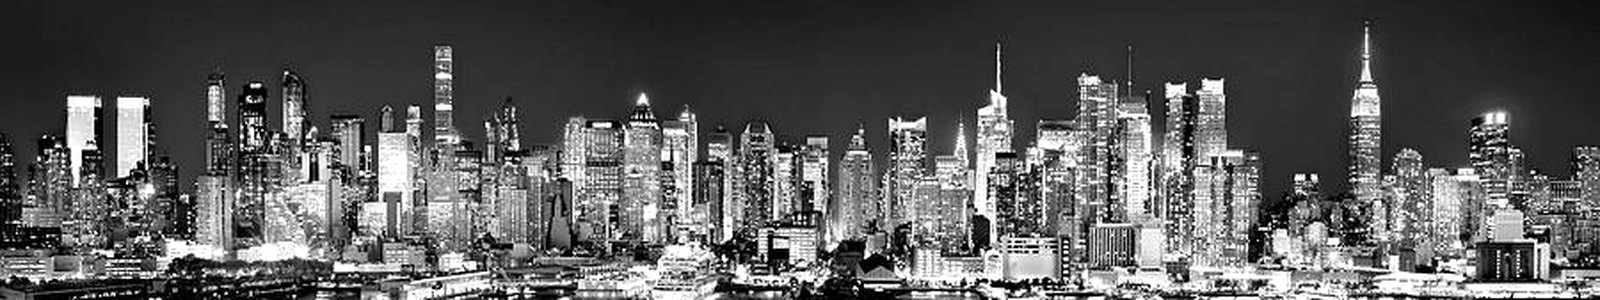
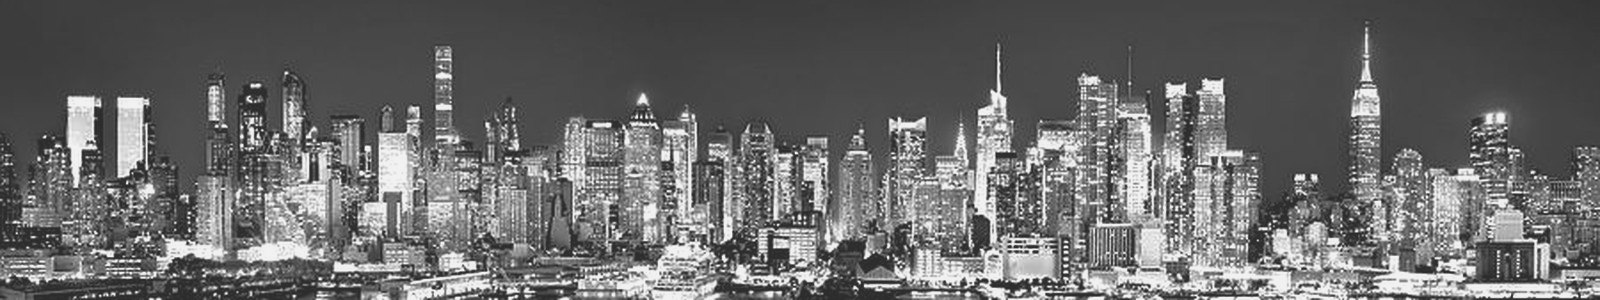
Regions: gray NYC sky to match, drop notes, equalize card heights
The New York strip's sky was near-black while LA and Seattle read
grayish. Lifted only its shadow range (blacks -> 46, rolled off at
130) so the sky median lands at 68, right between LA (61) and Seattle
(94), with the city lights untouched.

Also removed the note lines under the city captions and the caption's
bottom margin, so each card closes right where the notes used to
start: all three cards are now exactly equal height (227px).

diff --git a/index.html b/index.html
@@ -591,8 +591,7 @@
       border: 1px solid var(--line); line-height: 0;
     }
     .region-pano svg, .region-pano img { display: block; width: 100%; height: auto; }
-    .res-region p { font-size: 14px; color: var(--ink-2); line-height: 1.55; margin: 0 0 12px; }
-    .res-region .note { font-size: 12.5px; color: var(--ink-4); }
+    .res-region p { font-size: 14px; color: var(--ink-2); line-height: 1.55; margin: 0; }
 
     /* ─────────────── CTA band ─────────────── */
     .cta-band { background: #000; color: #fff; padding: 110px 0; text-align: center; }
@@ -982,7 +981,6 @@
               <img src="./assets/regions/newyork.jpg" alt="New York skyline at night" loading="lazy" />
             </figure>
             <p>New York and New Jersey</p>
-            <div class="note">Anchored around Ivy + HBCU athletic programs and the Northeast professional pipeline.</div>
           </article>
           <article class="res-region">
             <div class="kicker">Region · 02</div>
@@ -992,7 +990,6 @@
               <img src="./assets/regions/losangeles.jpg" alt="Los Angeles skyline at night" loading="lazy" />
             </figure>
             <p>Los Angeles</p>
-            <div class="note">Rooted in Crenshaw, extended across California's Division I and community-college athlete networks.</div>
           </article>
           <article class="res-region">
             <div class="kicker">Region · 03</div>
@@ -1002,7 +999,6 @@
               <img src="./assets/regions/seattle.jpg" alt="Seattle skyline with Mount Rainier" loading="lazy" />
             </figure>
             <p>Seattle</p>
-            <div class="note">Regional workshops delivered in partnership with universities and community sports programs.</div>
           </article>
         </div>
       </div>

diff --git a/public/index.html b/public/index.html
@@ -591,8 +591,7 @@
       border: 1px solid var(--line); line-height: 0;
     }
     .region-pano svg, .region-pano img { display: block; width: 100%; height: auto; }
-    .res-region p { font-size: 14px; color: var(--ink-2); line-height: 1.55; margin: 0 0 12px; }
-    .res-region .note { font-size: 12.5px; color: var(--ink-4); }
+    .res-region p { font-size: 14px; color: var(--ink-2); line-height: 1.55; margin: 0; }
 
     /* ─────────────── CTA band ─────────────── */
     .cta-band { background: #000; color: #fff; padding: 110px 0; text-align: center; }
@@ -982,7 +981,6 @@
               <img src="./assets/regions/newyork.jpg" alt="New York skyline at night" loading="lazy" />
             </figure>
             <p>New York and New Jersey</p>
-            <div class="note">Anchored around Ivy + HBCU athletic programs and the Northeast professional pipeline.</div>
           </article>
           <article class="res-region">
             <div class="kicker">Region · 02</div>
@@ -992,7 +990,6 @@
               <img src="./assets/regions/losangeles.jpg" alt="Los Angeles skyline at night" loading="lazy" />
             </figure>
             <p>Los Angeles</p>
-            <div class="note">Rooted in Crenshaw, extended across California's Division I and community-college athlete networks.</div>
           </article>
           <article class="res-region">
             <div class="kicker">Region · 03</div>
@@ -1002,7 +999,6 @@
               <img src="./assets/regions/seattle.jpg" alt="Seattle skyline with Mount Rainier" loading="lazy" />
             </figure>
             <p>Seattle</p>
-            <div class="note">Regional workshops delivered in partnership with universities and community sports programs.</div>
           </article>
         </div>
       </div>
